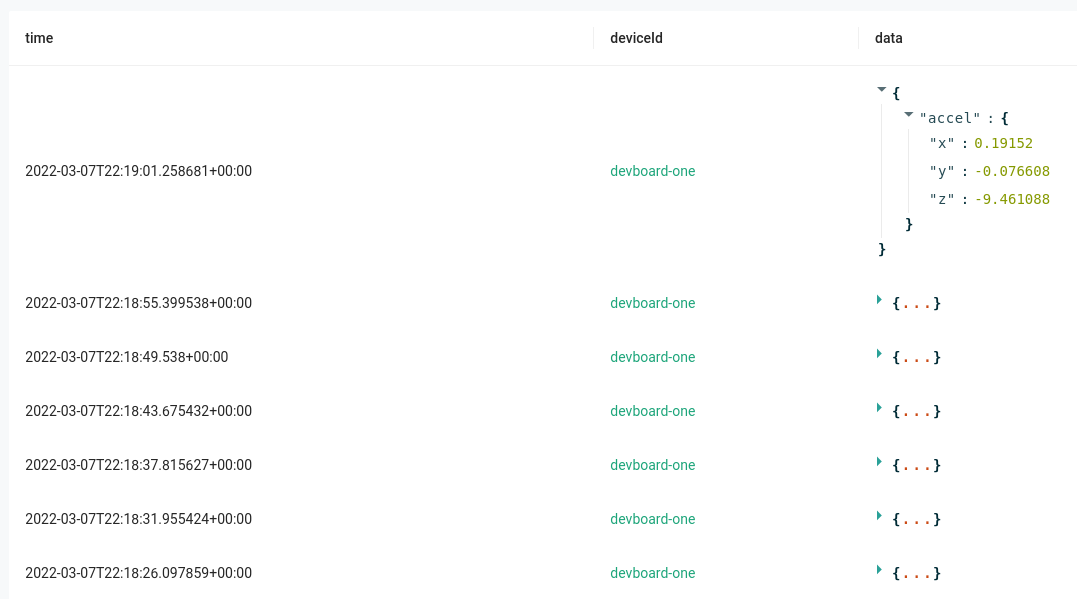
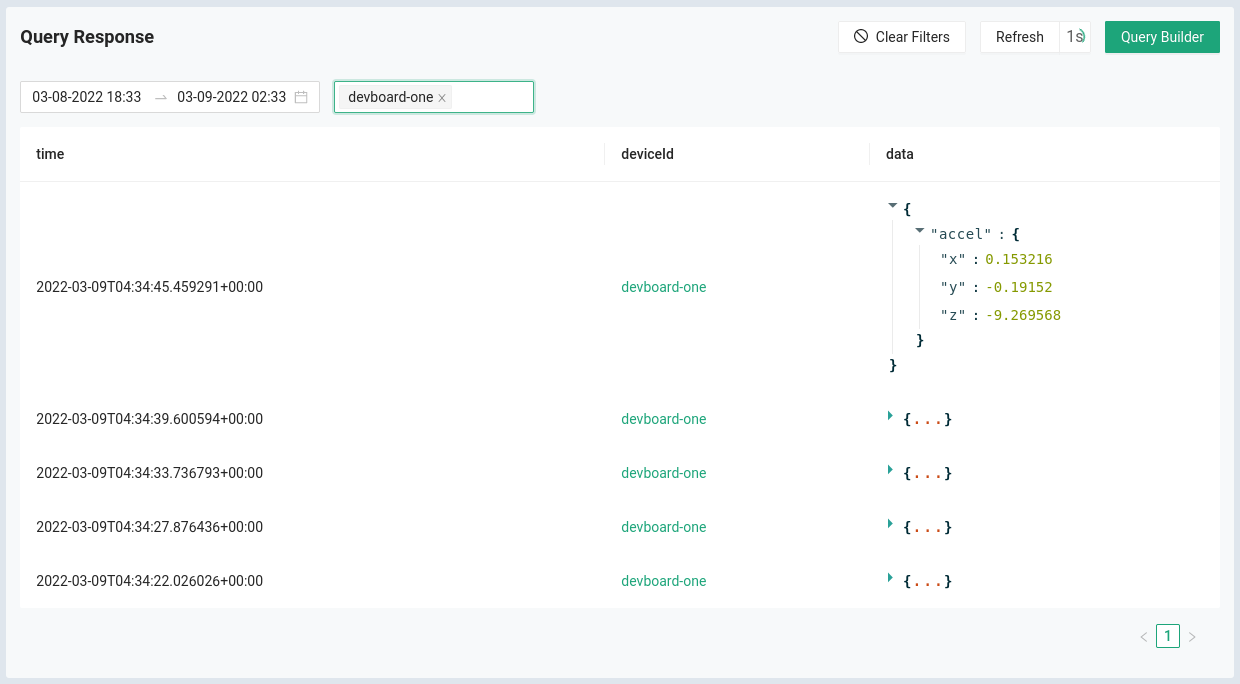
zephyr-examples: golioth-stream: update to use last 4 hours, device name, and 1s refresh

diff --git a/website/docs/zephyr-intro/zephyr-examples/golioth-stream.md b/website/docs/zephyr-intro/zephyr-examples/golioth-stream.md
@@ -51,9 +51,10 @@ The Stream example will begin running after pressing the Reset button. You will 
 Sensor data can be viewed on [the Golioth Console](https://console.golioth.io/)
 
 1. Select Monitor&rarr;Stream from the sidebar menu
-2. You may need to click the Clear Filters in the upper right to show new data if you were previously viewing data
-3. The Refresh button in the upper right also includes an option to auto-refresh every few seconds
-4. Use the green arrows in the "data" column to unfold the nested JSON objects for viewing
+2. Under "Query Response" use the time/date box and choose the `Last 4h` setting
+3. To the right of the time/date box, choose the name of your device from the list
+4. Click the circle arrow icon next to the Refresh button in the upper right to auto-refresh every 1 second
+5. Use the green arrows in the "data" column to unfold the nested JSON objects for viewing
 
 ![Accelerometer data show in the Golioth Console LightDB stream view](../assets/golioth-stream-data.png)
 
